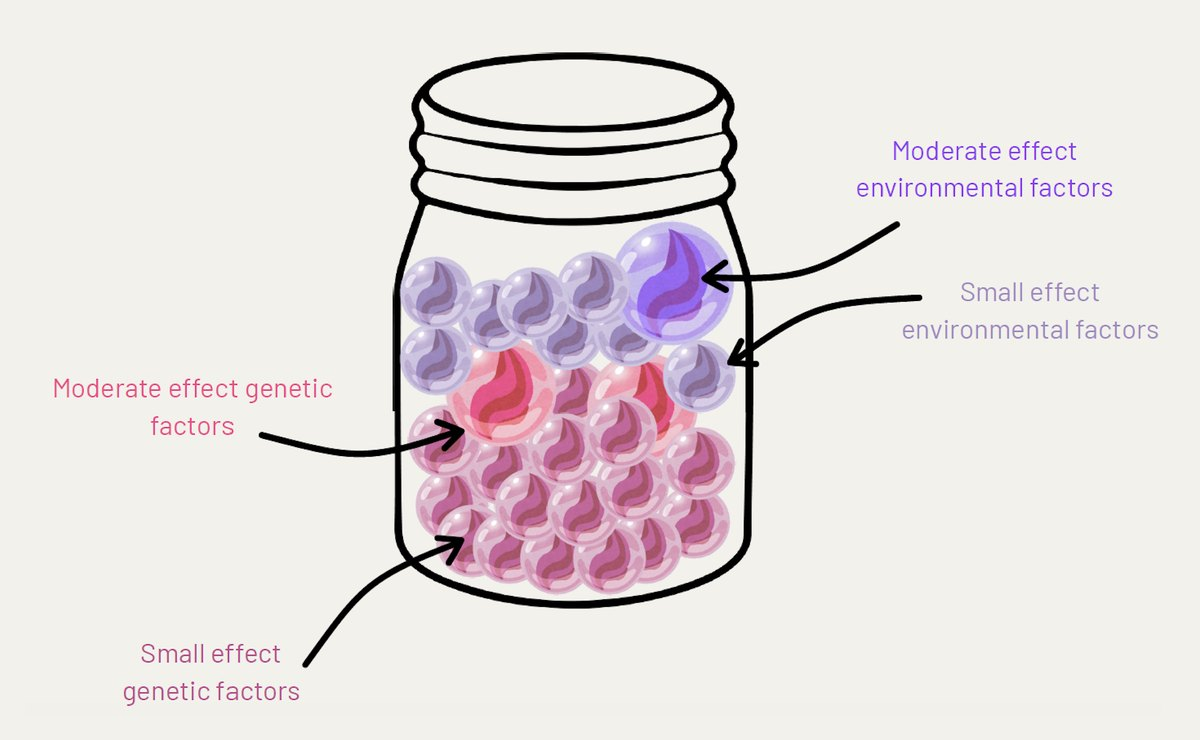
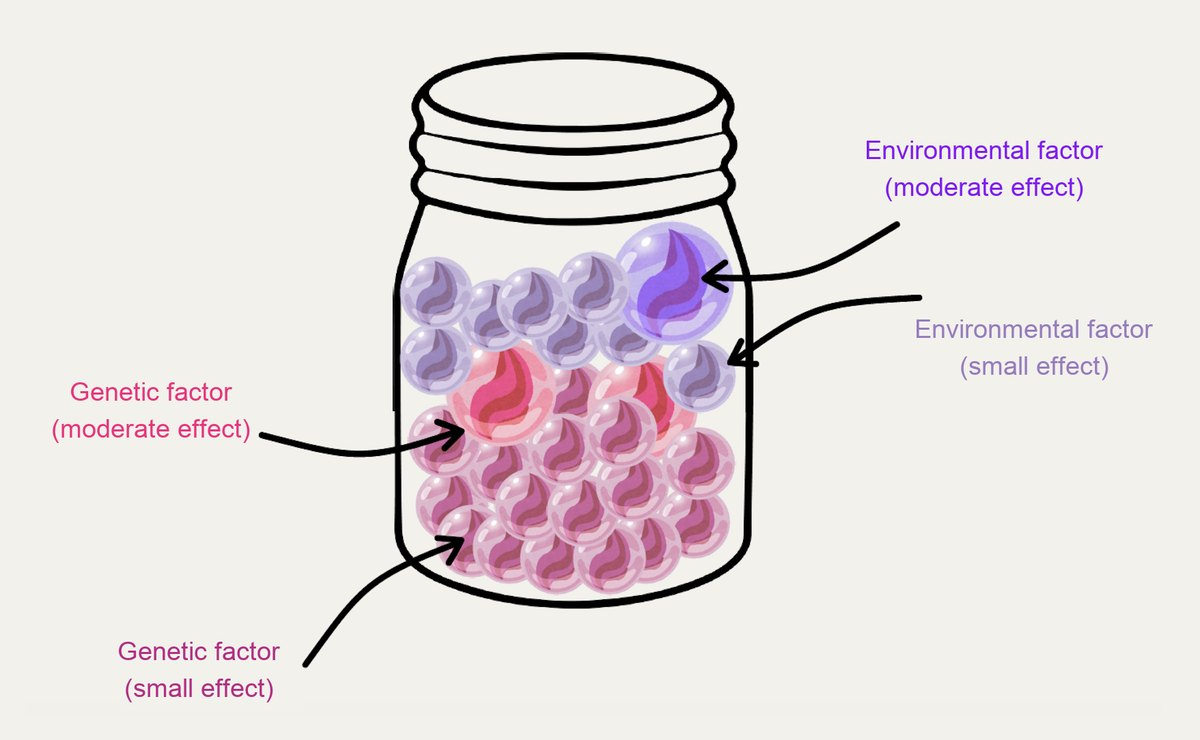
Add Brain Imaging page; apply edits doc, Oxford commas, jar labels
- New Brain Imaging page: eight task-fMRI cards from Imaging_Written_Overviews.docx
  (bold statements kept, the rest in plain language), connected cards, and a
  placeholder for rs-fMRI, diffusion MRI, and structural MRI results
- Mental Health and Substance Use text edits from "Edits needed.docx", with
  follow-up wording fixes; "genetics page" on the brain and genetics card links
  to the Genetics page
- Oxford commas in every list across the pages
- Jar labels reworded to "Environmental/Genetic factor (moderate/small effect)"
- Genetics "Related reading" adds ABCD's Genetic Testing and Results page
- Pages can show a todo placeholder; the resources section is optional

diff --git a/src/data/findings.js b/src/data/findings.js
@@ -26,7 +26,7 @@ export const FINDINGS = {
     sources: ['mh'],
     statement: 'Screen time and media impact the brain in complex ways',
     highlight: "An adolescent's screen time and media use has harmful risk factors for mental health. ABCD findings add a more nuanced impact on the developing brain.",
-    detail: "Adolescent mental health and screen time is a complicated and non-straightforward topic and more complex than “screens are bad”. Screen activity type, amount of time, patterns of use, along with genetics, sleep, physical activity and other factors all determine how screens affect a teen's brain.",
+    detail: "Adolescent mental health and screen time is a complicated and non-straightforward topic and more complex than “screens are bad”. Screen activity type, amount of time, patterns of use, along with genetics, sleep, physical activity, and other factors all determine how screens affect a teen's brain.",
     connected: ['mh-sleep', 'mh-activity', 'su-health'],
   },
   'mh-sleep': {
@@ -35,7 +35,7 @@ export const FINDINGS = {
     themes: ['Sleep', 'Brain'],
     sources: ['mh', 'gen'],
     statement: 'Sleep problems increase mental health vulnerability',
-    highlight: "An adolescent's sleep patterns can alter the developing brain. ABCD researchers have found genetic and neurobiological paths that can clarify the role of sleep on an adolescent's brain.",
+    highlight: 'Sleep patterns during childhood and adolescence can alter the way the brain develops.',
     detail: 'Sleep disturbances were associated with reduced brain volume and considerable changes in how different brain networks are linked with each other. Sleep was also tied to risk for depression and disordered thinking. Genetics play a role in childhood insomnia, with specific genetic markers contributing to about 15% of the risk of children aged 9–10 years old developing it.',
     originalStudies: 'Ma et al., 2021; Hernandez et al., 2025 (genetics of insomnia)',
     connected: ['mh-screens', 'su-health', 'gen-sleep'],
@@ -46,8 +46,8 @@ export const FINDINGS = {
     themes: ['Brain'],
     sources: ['mh'],
     statement: 'Mental health risk factors are more complex than previously thought',
-    highlight: "An adolescent's brain development shapes their mental health risk in many ways. ABCD studies have used data-driven approaches to help clarify some of that complexity.",
-    detail: "Brain development differences are also important moderators. For example, strong self-control can protect against anxiety when the brain's emotional and cognitive control regions are well-connected to each other. Environmental factors also played a key role. Differences in executive functioning, used for self-control for example, were linked to stronger mental health symptoms.",
+    highlight: 'How the brain develops can shape mental health risk in many ways. ABCD studies have used advanced approaches to help clarify some of that complexity.',
+    detail: "Brain development differences are important moderators. For example, strong self-control can protect against anxiety when the brain's emotional and cognitive control regions are well-connected to each other. Environmental factors also play a key role. Differences in executive functioning, used for self-control for example, were linked to stronger mental health symptoms.",
     connected: ['gen-ple', 'mh-adversity'],
   },
   'mh-adversity': {
@@ -58,7 +58,7 @@ export const FINDINGS = {
     statement: 'Resilience to adversity in the developing brain',
     highlight: 'Mental health in the developing brain is shaped by adverse situations. ABCD data shows that we need to examine multiple contexts altogether to understand the full influence on the brain.',
     detail: 'For adolescents who experience multiple environmental challenges and adverse stressors at once, even protective factors can have limited reach. For example, parental support decreased behavioral problems in the face of neighborhood economic challenges, but this buffering effect was only in children living in higher-income neighborhoods. The link between dense urban living and early psychological distress was largely driven by underlying factors like economic inequality and air quality, rather than population density itself.',
-    connected: ['ffc-family', 'ffc-school', 'ffc-unfair'],
+    connected: ['ffc-family', 'ffc-school', 'ffc-unfair', 'img-adversity'],
   },
   'mh-prenatal': {
     topic: 'mh',
@@ -88,8 +88,8 @@ export const FINDINGS = {
     themes: ['School', 'Peers'],
     sources: ['ffc', 'edu'],
     statement: 'School and community connections support mental health',
-    highlight: "Beyond the family, an adolescent's school, friends and neighborhood all shape their wellbeing. ABCD studies found that a positive school climate and strong school engagement were linked to fewer mental health symptoms.",
-    detail: "Supportive school settings can help buffer the emergence of mental health symptoms. Staying engaged in school, keeping up grades and being free from cyberbullying were all linked to better mental health. School experiences build on each other over time, and school life and mental health shape one another in both directions. During remote learning, family conditions strongly shaped students' engagement and mental health.",
+    highlight: "Beyond the family, an adolescent's school, friends, and neighborhood all shape their wellbeing. ABCD studies found that a positive school climate and strong school engagement were linked to fewer mental health symptoms.",
+    detail: "Supportive school settings can help buffer the emergence of mental health symptoms. Staying engaged in school, keeping up grades, and being free from cyberbullying were all linked to better mental health. School experiences build on each other over time, and school life and mental health shape one another in both directions. During remote learning, family conditions strongly shaped students' engagement and mental health.",
     connected: ['mh-adversity', 'su-social'],
   },
   'ffc-unfair': {
@@ -121,8 +121,8 @@ export const FINDINGS = {
     themes: ['Substance use', 'Brain'],
     sources: ['gen', 'su'],
     statement: 'Substance use may have genetic links',
-    highlight: 'Genes may be part of why some young people are more likely to use substances early. ABCD genetic studies found that early substance use shares genetic roots with several mental health conditions, including ADHD, anxiety and depression.',
-    detail: 'In young people who had not yet used substances, genetic risk for substance use showed only weak links to brain structure overall. Some studies did find small effects in specific brain regions for genetic risk tied to alcohol. Early substance use overlapped in both behavior and genetics with ADHD, anxiety, depression, suicide attempts, schizophrenia and bipolar disorder. This means early use is connected to many different conditions, rather than just one.',
+    highlight: 'Genes may be part of why some young people are more likely to use substances early. ABCD genetic studies found that early substance use shares genetic roots with several mental health conditions, including ADHD, anxiety, and depression.',
+    detail: 'In young people who had not yet used substances, genetic risk for substance use showed only weak links to brain structure overall. Some studies did find small effects in specific brain regions for genetic risk tied to alcohol. Early substance use overlapped in both behavior and genetics with ADHD, anxiety, depression, suicide attempts, schizophrenia, and bipolar disorder. This means early use is connected to many different conditions, rather than just one.',
     originalStudies: 'Kramer et al., 2025; Hatoum et al., 2021; Gerring et al., 2024; Toikumo et al., 2024',
     connected: ['su-brain', 'su-individual', 'gen-ple'],
   },
@@ -132,8 +132,8 @@ export const FINDINGS = {
     themes: ['Thinking skills', 'Reading'],
     sources: ['gen', 'edu'],
     statement: 'How children develop and understand the world may be heritable',
-    highlight: 'Thinking skills like reading, language and planning are partly shaped by the genes children inherit. ABCD genetic studies found that these skills, measured in childhood, are linked to common genetic differences between people.',
-    detail: 'Large studies of reading and language that included ABCD data found specific genetic markers linked to reading words. Genetic differences accounted for about 13–25% of the differences between children in reading, spelling and language skills. Executive function skills, which help with planning, focusing and self-control, were also partly heritable (about 9–12%), and the genes involved were largely shared across these different skills.',
+    highlight: 'Thinking skills like reading, language, and planning are partly shaped by the genes children inherit. ABCD genetic studies found that these skills, measured in childhood, are linked to common genetic differences between people.',
+    detail: 'Large studies of reading and language that included ABCD data found specific genetic markers linked to reading words. Genetic differences accounted for about 13–25% of the differences between children in reading, spelling, and language skills. Executive function skills, which help with planning, focusing, and self-control, were also partly heritable (about 9–12%), and the genes involved were largely shared across these different skills.',
     originalStudies: 'Eising et al., 2022; Carrion-Castillo et al., 2023; Yin et al., 2025; Li et al., 2024; Q. Li et al., 2025b; Maes et al., 2023; Pedersen et al., 2023; Wang et al., 2022, 2025',
     connected: ['gen-ple', 'ffc-school'],
   },
@@ -155,9 +155,95 @@ export const FINDINGS = {
     sources: ['gen'],
     statement: 'Certain behaviors and mental health risks are linked with genetics',
     highlight: 'Genes play a part in how children act on impulse and in some early signs of mental health risk. ABCD genetic studies found links to impulsive behavior and to psychotic-like experiences, which are unusual thoughts or perceptions some children have.',
-    detail: 'Impulsive behavior, and choosing a smaller reward now over a bigger one later, were partly heritable in ABCD children. Some of the same genetic influences were found in adults, suggesting they stay fairly steady across life. How often and how strongly children had psychotic-like experiences was linked to genetic scores, which add up the small effects of many genes, for ADHD, thinking skills, educational attainment and broad risk across mental health conditions. These mild experiences fall below the level of a diagnosis, and the same genetic markers often relate to several traits at once.',
+    detail: 'Impulsive behavior, and choosing a smaller reward now over a bigger one later, were partly heritable in ABCD children. Some of the same genetic influences were found in adults, suggesting they stay fairly steady across life. How often and how strongly children had psychotic-like experiences was linked to genetic scores, which add up the small effects of many genes, for ADHD, thinking skills, educational attainment, and broad risk across mental health conditions. These mild experiences fall below the level of a diagnosis, and the same genetic markers often relate to several traits at once.',
     originalStudies: 'Deng et al., 2025; Maes et al., 2023 (impulsivity); Chang et al., 2024; Karcher et al., 2022; Loughnan et al., 2022b; Park et al., 2024 (psychotic-like experiences)',
     connected: ['mh-complex', 'ffc-unfair', 'gen-su'],
+  },
+
+  // Brain Imaging (statements as written in Imaging_Written_Overviews.docx; the rest in plain language)
+  'img-change': {
+    topic: 'img',
+    groups: ['Brain'],
+    themes: ['Brain scans', 'Development'],
+    sources: ['img'],
+    statement: 'ABCD can track how individuals change over time using task-fMRI',
+    highlight: "Functional MRI scans show which parts of the brain are active while young people do specific tasks, like remembering, stopping an action, or waiting for a reward. With its large number of participants and openly shared data, ABCD helps scientists see how brain function is shaped by many parts of a young person's development.",
+    detail: "ABCD uses three tasks in the scanner: one where young people can win money or avoid losing it, one that tests memory using pictures of faces and places, and one where they have to stop an action at the last moment. As participants reach their late teens, researchers can follow how each young person's brain activity changes over time, instead of only comparing different groups of young people. Because the data is shared openly, scientists around the world can use it in their own research.",
+    connected: ['img-cognition', 'mh-complex'],
+  },
+  'img-cognition': {
+    topic: 'img',
+    groups: ['Brain'],
+    themes: ['Thinking skills'],
+    sources: ['img'],
+    statement: 'General Cognitive Ability',
+    highlight: "How well different brain areas work together can tell us about a young person's overall thinking skills. ABCD studies found that patterns of brain communication, measured during tasks and at rest, predicted thinking skills better than the size and shape of brain regions.",
+    detail: 'Functional connectivity describes how closely the activity of different brain areas rises and falls together, a sign of how well they communicate. Connectivity measured during all three ABCD tasks, as well as while young people simply rested in the scanner, predicted their overall thinking skills better than measures of brain structure, such as the size, thickness, or shape of brain regions.',
+    originalStudies: 'Ooi et al., 2022',
+    connected: ['img-memory', 'gen-cognition'],
+  },
+  'img-memory': {
+    topic: 'img',
+    groups: ['Brain'],
+    themes: ['Memory', 'Thinking skills'],
+    sources: ['img'],
+    statement: 'Working Memory',
+    highlight: 'Working memory is how we hold information in mind for a short time and use it, like remembering a phone number while dialing it. ABCD studies found that young people whose brains were more active in certain areas during a memory task also did better on a memory test outside the scanner.',
+    detail: 'In the scanner memory task, young people either looked for a picture shown at the start (easier) or for the picture they saw two turns before (harder). Those who showed more activity during the harder version, in two brain networks that help us control attention and stay on task (the frontoparietal and cingulo-opercular networks), did better on a separate test that asks them to remember a list of items and put them in order.',
+    originalStudies: 'Rosenberg et al., 2020',
+    connected: ['img-cognition', 'gen-cognition'],
+  },
+  'img-inhibition': {
+    topic: 'img',
+    groups: ['Brain', 'Social'],
+    themes: ['Self-control', 'Family'],
+    sources: ['img'],
+    statement: 'Inhibitory Control',
+    highlight: 'Inhibitory control is the ability to stop ourselves from acting on an urge. ABCD studies found that young people with a parent who has had a substance use disorder showed more brain activity when trying to stop an action.',
+    detail: 'About 14% of ABCD youth have a parent who has had a substance use disorder. In a task where they had to stop a button press at the last moment, these young people showed more activity in the front of the brain, the basal ganglia (deep brain areas involved in movement and habits), and the cerebellum (at the back of the brain), whether or not they managed to stop. Results differed slightly depending on whether the father or the mother had this history.',
+    originalStudies: 'Lees et al., 2020',
+    connected: ['su-social', 'img-reward'],
+  },
+  'img-reward': {
+    topic: 'img',
+    groups: ['Brain', 'Lifestyle'],
+    themes: ['Reward', 'Substance use'],
+    sources: ['img'],
+    statement: 'Reward Processing',
+    highlight: "The brain's reward system helps us want and enjoy things, and it keeps developing through the teen years. ABCD studies found that patterns of brain communication were linked to risk-seeking and to a family history of substance use, two factors that can make young people more vulnerable to substance use.",
+    detail: 'Researchers combined brain connectivity from all three tasks and from rest. Together, these patterns were linked to risk-seeking, a tendency to look for exciting or risky experiences. Connectivity during the memory task on its own was linked to having a family history of substance use.',
+    originalStudies: 'Rapuano et al., 2020',
+    connected: ['su-individual', 'img-inhibition'],
+  },
+  'img-puberty': {
+    topic: 'img',
+    groups: ['Brain'],
+    themes: ['Puberty'],
+    sources: ['img'],
+    statement: 'Puberty, Sex, and Gender',
+    highlight: 'Puberty brings big changes to both the body and the brain. ABCD studies found differences in how the brain responds, linked to biological sex and stage of puberty, especially in areas that process rewards and help manage emotions.',
+    detail: 'Researchers compared brain activity during the ABCD tasks by biological sex and across different stages of puberty. They found differences in how strongly some brain areas switched on, mostly in circuits for reward and for managing emotions. These differences were clear in the data, but small.',
+    connected: ['su-health', 'img-reward'],
+  },
+  'img-neighborhood': {
+    topic: 'img',
+    groups: ['Social'],
+    themes: ['Neighborhood'],
+    sources: ['img'],
+    statement: 'Neighborhood and Socioeconomic Factors',
+    highlight: 'Where young people live can be reflected in how their brains respond. ABCD studies found that living in neighborhoods with fewer resources or more danger was linked to weaker brain responses in areas for reward and self-control.',
+    detail: 'Neighborhood deprivation means an area has fewer resources, such as lower incomes, fewer jobs, and less education. Neighborhood threat means more exposure to violence or danger. Both were linked to a “blunted”, or weaker, response in brain areas that process rewards and help with planning and self-control, though the results varied depending on the task.',
+    connected: ['mh-adversity', 'img-adversity'],
+  },
+  'img-adversity': {
+    topic: 'img',
+    groups: ['Social'],
+    themes: ['Adversity', 'Family'],
+    sources: ['img'],
+    statement: 'Adverse Childhood Experiences (ACEs) and Negative Life Events (NLEs)',
+    highlight: 'Difficult experiences can add up over time. ABCD studies found that young people who had been through more adverse childhood experiences and negative life events tended to show quieter, or “blunted”, brain activity in areas for self-control and emotions.',
+    detail: 'Adverse childhood experiences include abuse, neglect, or serious problems at home. Negative life events are stressful moments, such as the death of a loved one or a parent losing their job. Having many of these experiences was linked to lower activity across many brain circuits, especially those that help young people stop an action and process emotions.',
+    connected: ['mh-adversity', 'img-neighborhood', 'ffc-family'],
   },
 
   // Substance Use
@@ -166,9 +252,9 @@ export const FINDINGS = {
     groups: ['Lifestyle'],
     themes: ['Substance use', 'COVID-19'],
     sources: ['su', 'ph'],
-    statement: 'Most young people in ABCD had not used substances by mid-adolescence',
+    statement: 'Most young people in the ABCD study have not used substances by mid-adolescence',
     highlight: 'Substance use usually begins in the teen years, and ABCD has followed young people from childhood. At ages 9–10, almost no ABCD youth had used substances and by Year 6 of the study about two-thirds still had not started.',
-    detail: 'Only about 7% had started using substances by Year 3. By ages 15–16, 20.2% had ever used alcohol, 18.4% cannabis, 17.4% nicotine and 7.0% other substances. During the COVID-19 pandemic, alcohol use went down while smoking and other drug use went up, and youth with strong parental support and close peer connections were better protected.',
+    detail: 'Only about 7% had started using substances by Year 3. By ages 15–16, 20.2% had ever used alcohol, 18.4% cannabis, 17.4% nicotine, and 7.0% other substances. During the COVID-19 pandemic, alcohol use went down while smoking and other drug use went up, and youth with strong parental support and close peer connections were better protected.',
     connected: ['su-consequences', 'su-health'],
   },
   'su-prenatal': {
@@ -177,8 +263,8 @@ export const FINDINGS = {
     themes: ['Prenatal'],
     sources: ['su', 'mh'],
     statement: 'Substance exposure before birth can shape later development',
-    highlight: "What happens before birth can shape how a child develops. ABCD's largest area of substance use research, 52 publications, links prenatal alcohol, nicotine and cannabis exposure to children's mental health, ADHD, sleep, thinking skills and early substance use.",
-    detail: "Even low to moderate prenatal alcohol exposure can affect children's behavior, and the effect is stronger when combined with other stressors like lower economic status or early life stress. Prenatal alcohol exposure was linked to mental health symptoms, impulsivity, sleep, thinking skills and early substance use. Prenatal nicotine exposure was linked to ADHD, mental health symptoms, thinking skills and early use. Prenatal cannabis exposure was linked to psychotic-like experiences, ADHD, mental health symptoms, sleep, thinking skills and early use.",
+    highlight: "What happens before birth can shape how a child develops. Prenatal exposure is one of ABCD's biggest areas of substance use research. Researchers have found links between prenatal alcohol, nicotine, and cannabis exposure and children's mental health, ADHD, sleep, thinking skills, and early substance use.",
+    detail: "Some studies found that even low to moderate prenatal alcohol exposure can affect children's behavior, with the effect getting stronger with lower economic status or early life stress. Prenatal alcohol exposure was linked to mental health symptoms, impulsivity, sleep, thinking skills, and early substance use. Prenatal nicotine exposure was linked to ADHD, mental health symptoms, thinking skills, and early use. Prenatal cannabis exposure was linked to psychotic-like experiences, ADHD, mental health symptoms, sleep, thinking skills, and early use.",
     connected: ['mh-prenatal', 'su-social'],
   },
   'su-individual': {
@@ -186,9 +272,9 @@ export const FINDINGS = {
     groups: ['Brain', 'Social'],
     themes: ['Mental health', 'Values'],
     sources: ['su', 'ffc'],
-    statement: 'Personality, mental health and attitudes shape early substance use',
-    highlight: 'Each young person brings their own traits, feelings and beliefs to choices about substances. ABCD studies found that curiosity, sensation seeking, impulsivity, sensitivity to rewards, externalizing behaviors, depression and anxiety were linked to substance use.',
-    detail: "Expecting substances to feel good, being familiar with them, and physical complaints such as headaches or stomachaches were also linked to use. Curiosity about using was linked to adverse childhood experiences, family conflict, parental monitoring, neighborhood safety and school factors. Feeling connected to both one's heritage culture and mainstream culture may be protective, though findings on culture were mixed, and one study linked being bilingual to earlier first use.",
+    statement: 'Personality, mental health, and attitudes shape early substance use',
+    highlight: 'Each young person brings their own unique personality, feelings, and beliefs to choices about substances. ABCD studies found that curiosity, sensation seeking, impulsivity, sensitivity to rewards, externalizing behaviors, depression, and anxiety were linked to substance use.',
+    detail: "Expecting substances to feel good, being familiar with them, and physical complaints such as headaches or stomachaches were also linked to use. Curiosity about using was linked to adverse childhood experiences, family conflict, parental monitoring, neighborhood safety, and school factors. Feeling connected to both one's heritage culture and mainstream culture may be protective, though findings on culture were mixed, and one study linked being bilingual to earlier first use.",
     connected: ['su-brain', 'mh-complex'],
   },
   'su-social': {
@@ -197,10 +283,10 @@ export const FINDINGS = {
     themes: ['Family', 'Peers', 'School', 'Discrimination'],
     sources: ['su', 'ffc', 'edu', 'img'],
     statement: 'Friends, school, and community work together with family',
-    highlight: "Young people's social worlds extend well beyond home. Parental monitoring, rules and limited access were protective, and ABCD studies found that staying engaged in school was linked to less substance use, while friends' use, easy access, discrimination and societal stress were linked to more.",
-    detail: "The settings in a young person's life work together rather than on their own. Parental monitoring seemed to work mainly by limiting chances to use rather than through punishment, and it was most protective when youth stayed engaged in school. Lower family conflict and less maternal hardship were also linked to lower risk. Challenging school experiences were linked to trying substances earlier, rather than to using more over time. A family history of substance problems was linked to differences in brain structure, mental health, sleep and early use, and youth with a parent who has had a substance use disorder (14% of the ABCD sample) showed greater brain activity during tasks that measure self-control.",
+    highlight: "Young people's social worlds extend well beyond home. Parental monitoring, rules, and limited access were protective, and ABCD studies found that staying engaged in school was linked to less substance use, while friends' use, easy access, discrimination, and societal stress were linked to more.",
+    detail: "The settings in a young person's life work together rather than on their own. Parental monitoring seemed to work mainly by limiting chances to use rather than through punishment, and it was most protective when youth stayed engaged in school. Lower family conflict and less maternal hardship were also linked to lower risk. Challenging school experiences were linked to trying substances earlier, rather than to using more over time. A family history of substance problems was linked to differences in brain structure, mental health, sleep, and early use, and youth with a parent who has had a substance use disorder (14% of the ABCD sample) showed greater brain activity during tasks that measure self-control.",
     originalStudies: 'Lees et al., 2020; Rapuano et al., 2020 (imaging)',
-    connected: ['ffc-family', 'ffc-school', 'su-brain'],
+    connected: ['ffc-family', 'ffc-school', 'su-brain', 'img-inhibition'],
   },
   'su-health': {
     topic: 'su',
@@ -208,8 +294,8 @@ export const FINDINGS = {
     themes: ['Sleep', 'Screen time'],
     sources: ['su'],
     statement: 'Everyday habits and health are linked to substance use',
-    highlight: "Sleep, screens, activity and other daily habits are all part of an adolescent's overall health. ABCD studies found these everyday habits are linked to substance use, with more sleep linked to less use.",
-    detail: 'Higher levels of early life stress, earlier puberty, more digital media use and more caffeine were each linked to more substance use. More physical activity was also linked to more use. These links describe the overall direction of findings across ABCD studies.',
+    highlight: "Sleep, screens, activity, and other daily habits are all part of an adolescent's overall health. ABCD studies found these everyday habits are linked to substance use, with more sleep linked to less use.",
+    detail: 'Higher levels of early life stress, earlier puberty, more digital media use, and more caffeine were each linked to more substance use. More physical activity was also linked to more use. These links describe the overall direction of findings across ABCD studies.',
     connected: ['mh-screens', 'mh-sleep', 'su-patterns'],
   },
   'su-brain': {
@@ -218,8 +304,9 @@ export const FINDINGS = {
     themes: ['Brain', 'Genetics'],
     sources: ['su', 'gen'],
     statement: 'Brain development and genetics both play a role',
-    highlight: 'Genes and brain development help explain why young people differ from one another. ABCD genetic studies found that genetic scores for risk-taking were linked to substance use, and that early use shares genetic roots with several mental health conditions.',
-    detail: "Substance use was linked to a thinner cortex, the brain's outer layer, while findings for brain volume, connectivity and activity varied in direction. Early substance use overlapped in both behavior and genetics with ADHD, anxiety, depression, suicide attempts, schizophrenia and bipolar disorder. In youth who had not yet used substances, genetic risk showed only weak links to brain structure.",
+    highlight: 'Genes and brain development help explain why young people differ from one another. ABCD genetic studies found that genetic scores for risk-taking were linked to substance use, and that early use shares genetic roots with several mental health conditions (see genetics page for more details.)',
+    highlightLink: { text: 'genetics page', href: '#genetics' },
+    detail: "Substance use was linked to a thinner cortex, the brain's outer layer, while findings for brain volume, connectivity, and activity varied in direction. Early substance use overlapped in both behavior and genetics with ADHD, anxiety, depression, suicide attempts, schizophrenia, and bipolar disorder. In youth who had not yet used substances, genetic risk showed only weak links to brain structure.",
     originalStudies: 'Kramer et al., 2025; Hatoum et al., 2021; Gerring et al., 2024; Toikumo et al., 2024 (genetics)',
     connected: ['su-individual', 'su-social', 'gen-su'],
   },
@@ -229,8 +316,8 @@ export const FINDINGS = {
     themes: ['Values'],
     sources: ['su'],
     statement: 'Early substance use is linked to later health and wellbeing',
-    highlight: "As ABCD youth move through their teens, researchers can see how early use relates to their health. ABCD's 18 publications so far, mostly on low levels of use, link alcohol, nicotine, cannabis and caffeine to sleep, thinking skills, impulsivity, mental health and suicidal thoughts.",
-    detail: 'Alcohol use was linked to impulsivity, suicidal thoughts and attempts, and how the brain responds to rewards. Nicotine use was linked to suicide attempts and thinking skills. Cannabis use was linked to mental health symptoms, psychotic-like experiences, physical activity, sleep, thinking skills and the size of the amygdala, a brain region involved in emotion. Caffeine use was linked to thinking skills, impulsivity, alcohol use and sleep.',
+    highlight: "As ABCD youth move through their teens, researchers can see how early substance use relates to their health. ABCD's work so far has mostly looked at low levels of use, and has linked alcohol, nicotine, cannabis, and caffeine to sleep, thinking skills, impulsivity, mental health, and suicidal thoughts.",
+    detail: 'Alcohol use was linked to impulsivity, suicidal thoughts and attempts, and how the brain responds to rewards. Nicotine use was linked to suicide attempts and thinking skills. Cannabis use was linked to mental health symptoms, psychotic-like experiences, physical activity, sleep, thinking skills, and the size of the amygdala, a brain region involved in emotion. Caffeine use was linked to thinking skills, impulsivity, alcohol use, and sleep.',
     connected: ['su-patterns'],
   },
 }

diff --git a/src/page.js b/src/page.js
@@ -72,16 +72,21 @@ export function renderPage(page, goTo) {
   const ids = page.findings.concat(page.connected)
   const themes = GROUPS.filter((g) => ids.some((id) => FINDINGS[id].groups.includes(g)))
 
-  const cards = page.findings.map((id) => card(id, false)).join('') +
+  // A page's `todo` shows as a dashed placeholder after its own cards.
+  const todo = page.todo ? `<div class="todo-card"><span class="lab">Placeholder</span>${esc(page.todo)}</div>` : ''
+  const cards = page.findings.map((id) => card(id, false)).join('') + todo +
     (hasConnected
       ? '<div class="divider"><span class="lab" style="color:var(--violet)">Connected from other topics</span></div>' +
         page.connected.map((id) => card(id, true)).join('')
       : '')
   const stats = `<span><b>${page.findings.length}</b> ${esc(page.title)} highlights</span>` +
     (hasConnected ? `<span><b>${page.connected.length}</b> connected from other topics</span>` : '')
-  const resources = page.resources
-    .map((r) => `<a class="thumb" href="${r.url}" target="_blank" rel="noopener">${esc(r.title)}<span>${esc(r.kind)}</span></a>`)
-    .join('')
+  // The resources section only appears when the page lists some.
+  const resources = page.resources?.length
+    ? `<div class="sec"><h3>${esc(page.resourcesTitle)}</h3><div class="thumbs">${page.resources
+        .map((r) => `<a class="thumb" href="${r.url}" target="_blank" rel="noopener">${esc(r.title)}<span>${esc(r.kind)}</span></a>`)
+        .join('')}</div></div>`
+    : ''
 
   const el = document.createElement('div')
   el.className = 'page'
@@ -100,7 +105,7 @@ export function renderPage(page, goTo) {
       <div class="rail">${themeRail(themes, hasConnected)}</div>
       <div class="grid">${cards}</div>
     </div>
-    <div class="sec"><h3>${esc(page.resourcesTitle)}</h3><div class="thumbs">${resources}</div></div>`
+    ${resources}`
 
   const state = { theme: 'All', showConnected: true }
   const rings = el.querySelectorAll('.rail .ring')

diff --git a/src/data/pages.js b/src/data/pages.js
@@ -62,7 +62,7 @@ export const PAGES = {
         width: 746,
         height: 742,
         title: 'Predictors of early substance use initiation',
-        alt: 'Wheel of predictors of early substance use initiation in nine areas: physical health and screen time, sociocultural factors, parenting factors, brain features, genetics, psychopathology, personality and cognition, with arrows showing the direction of each link.',
+        alt: 'Wheel of predictors of early substance use initiation in nine areas: physical health and screen time, sociocultural factors, parenting factors, brain features, genetics, psychopathology, personality, and cognition, with arrows showing the direction of each link.',
       },
     ],
     resourcesTitle: 'Related infographics',
@@ -115,6 +115,11 @@ export const PAGES = {
     resourcesTitle: 'Related reading',
     resources: [
       {
+        title: 'Genetic Testing and Results',
+        kind: 'Youth resources · ABCD Study',
+        url: 'https://abcdstudy.org/youth-resources/youth-resources-genetic-testing/',
+      },
+      {
         title: 'A decade of discovery: genomic data in the ABCD Study',
         kind: 'Review paper · Hernandez et al., 2026',
         url: 'https://doi.org/10.1016/j.dcn.2026.101723',
@@ -125,5 +130,14 @@ export const PAGES = {
         url: CEREBRA_GUIDE,
       },
     ],
+  },
+  img: {
+    slug: 'brain-imaging',
+    title: 'Brain Imaging',
+    intro: "ABCD's 10 years of adolescent brain imaging",
+    findings: ['img-change', 'img-cognition', 'img-memory', 'img-inhibition', 'img-reward', 'img-puberty', 'img-neighborhood', 'img-adversity'],
+    // The cards so far cover task fMRI only.
+    todo: 'Need to add rs-fMRI, diffusion MRI, and structural MRI results.',
+    connected: ['mh-complex', 'mh-adversity', 'su-social', 'su-brain'],
   },
 }

diff --git a/src/style.css b/src/style.css
@@ -59,6 +59,7 @@ body { margin:0; background:#fff; color:#1d1d1f; font-family:var(--font-body); }
 .toggle.off i { background:#ccc; } .toggle.off i::after { right:13px; }
 
 .grid { flex:1; display:grid; grid-template-columns: repeat(auto-fill, minmax(250px,1fr)); gap:12px; }
+.todo-card { box-sizing:border-box; min-height:120px; display:flex; flex-direction:column; justify-content:center; align-items:center; gap:6px; padding:14px; border:2px dashed #cfcfd4; border-radius:16px; text-align:center; font-style:italic; color:#777; }
 .divider { grid-column:1/-1; display:flex; align-items:center; gap:10px; margin:6px 0 0; }
 .divider::after { content:''; flex:1; height:2px; background: linear-gradient(90deg, var(--rainbow)); opacity:.5; border-radius:2px; }
 
@@ -81,6 +82,7 @@ body { margin:0; background:#fff; color:#1d1d1f; font-family:var(--font-body); }
 .statement { font-weight:700; font-size:14.5px; line-height:1.3; color:#111; margin-bottom:10px; }
 .hl-lab { font-weight:700; color:var(--violet); font-size:13px; margin-bottom:2px; }
 .hl { font-size:13px; color:#111; }
+.hl a { color:var(--violet); font-weight:700; text-decoration:none; }
 .spacer { flex:1; min-height:6px; }
 .fliphint { font-size:12px; color:var(--violet); font-weight:600; margin-bottom:8px; }
 .foot { display:flex; justify-content:space-between; gap:8px; font-size:11.5px; color:#444; border-top:2px dashed #cfcfd4; padding-top:8px; }

diff --git a/src/card.js b/src/card.js
@@ -26,6 +26,13 @@ function sourceItem(key) {
 
 // A flip card: the front has the bold statement and the ABCD highlight; the back holds
 // the combined detail, every source it draws on, and links to its connected findings.
+// The highlight's `highlightLink.text`, if set, becomes a link to `highlightLink.href`.
+function highlight(f) {
+  const html = esc(f.highlight)
+  const link = f.highlightLink
+  return link ? html.replace(esc(link.text), `<a href="${link.href}">${esc(link.text)}</a>`) : html
+}
+
 export function card(id, fromOtherTopic) {
   const f = FINDINGS[id]
   const tags = f.themes.map((t) => `<span class="tag">${esc(t)}</span>`).join('')
@@ -45,7 +52,7 @@ export function card(id, fromOtherTopic) {
           <div class="tags">${tags}</div>
           <div class="statement">${esc(f.statement)}</div>
           <div class="hl-lab">ABCD highlights</div>
-          <div class="hl">${esc(f.highlight)}</div>
+          <div class="hl">${highlight(f)}</div>
           <div class="spacer"></div>
           <div class="fliphint">Flip to see the research behind this ↻</div>
           <div class="foot"><span>${topicLabel(f.topic)}</span><b>${f.connected.length} connected →</b></div>
